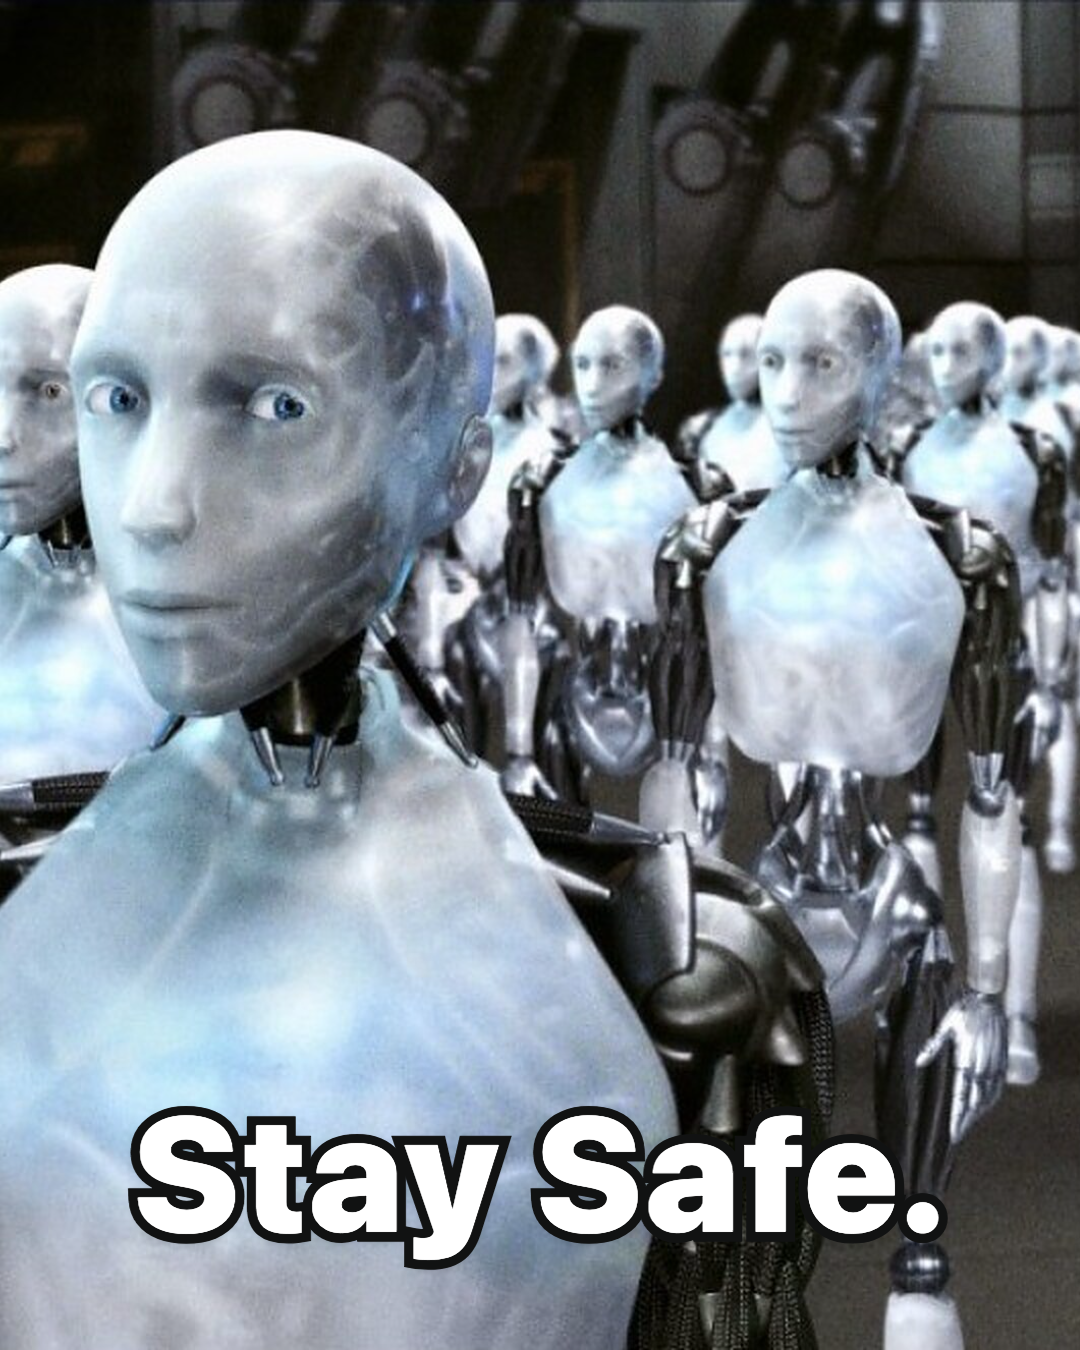
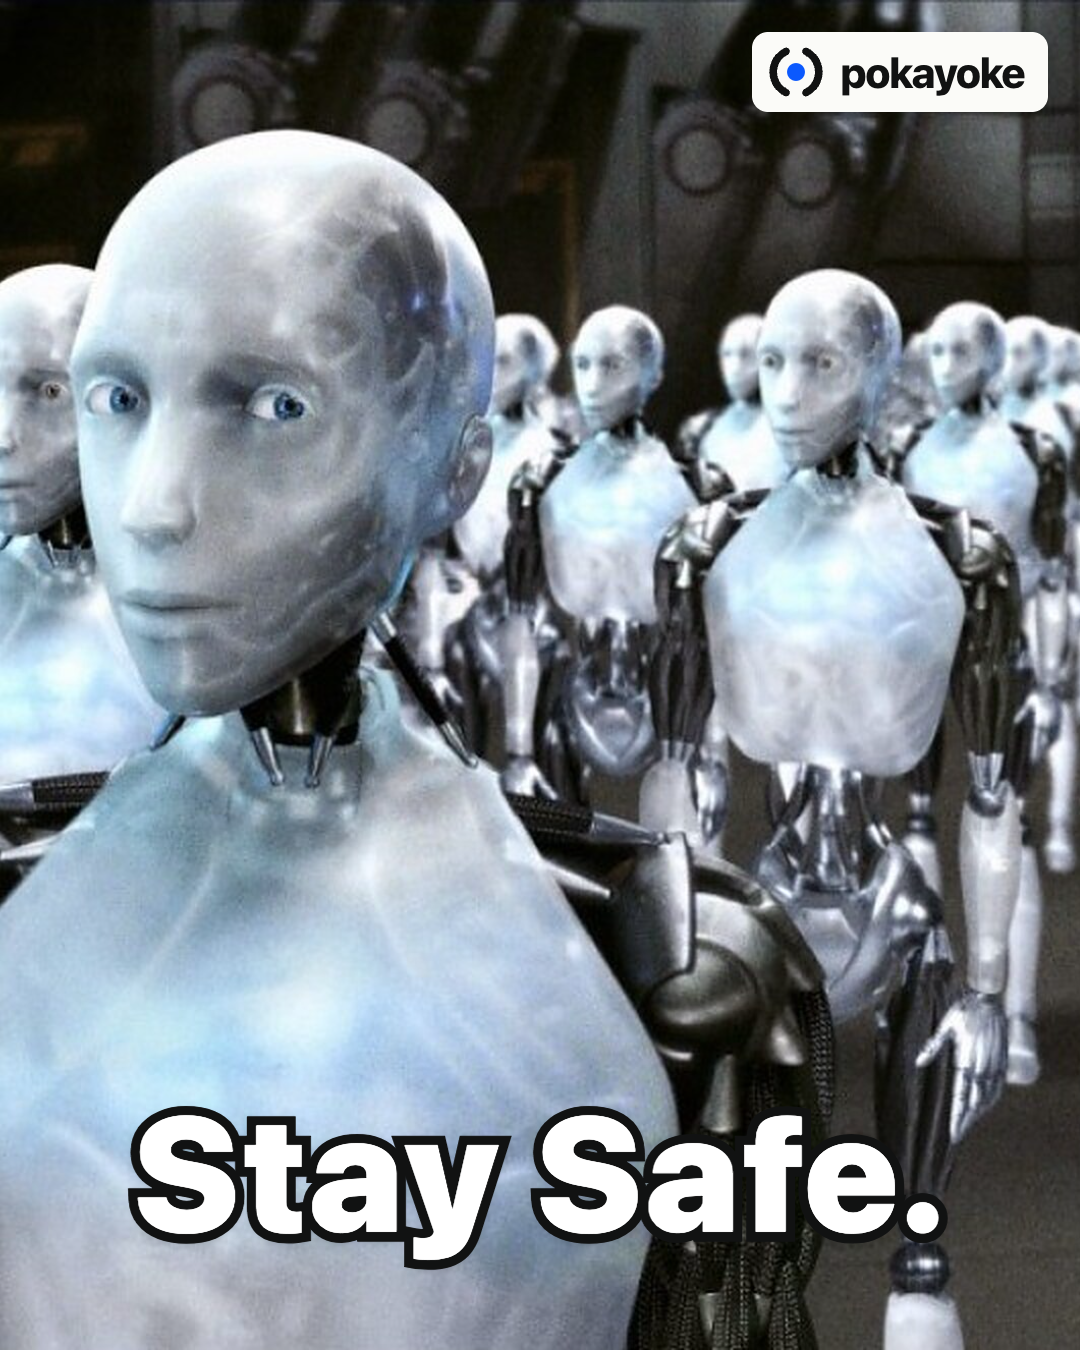
Stay Safe. ads PKY-0015 to PKY-0017: add the pokayoke lockup top right in every ratio, at the user's request

Changed region(s): [[0.6722, 0.0, 0.9778, 0.0933]]

diff --git a/ads/PKY-0015/ad.html b/ads/PKY-0015/ad.html
@@ -13,31 +13,45 @@
   Meme: "Terminator robots invading" (imgflip template 530426257), the future-war shot of T-800 endoskeletons
   marching through blue smoke with miniguns, from the 1777x920 copy the user sent, upscaled 2x to still.jpg (3554x1840).
   Rights: a Terminator film still (meme bank MEME-59, "Ask first or skip"): not for paid ads unless licensed.
-  The only text is "Stay Safe.", as the user asked: no label, no lockup, no tagline.
-  The still fills the frame in every ratio; --fx/--fy pick the crop (0 = left/top edge, 1 = right/bottom edge).
+  The only text is "Stay Safe.", as the user asked, and the pokayoke lockup (mark and wordmark) top right,
+  their later ask; no byline, no tagline.
+  The still fills the frame in every ratio; --fx/--fy pick the crop (0 = left/top edge, 1 = right/bottom edge),
+  and --view (object-view-box) trims the still first where the lockup would cover a robot.
   PKY-0015 to PKY-0017 are the same ad over the three images the user sent.
 -->
 <style>
   :root {
     --frame-w: 960px;
     --frame-h: 540px;
-    --fx: 0.5;
-    --fy: 0.35;
+    --fx: 1;
+    --fy: 0;
+    /* 16:9 only: view the top-right 88% of the still, so the front robot's head clears the lockup */
+    --view: inset(0 0 12% 12%);
     --size: 12cqw;
     --bottom: 7cqh;
+    --lockup-top: var(--space-20);
+    --lockup-right: var(--space-20);
   }
   [data-ratio="4x5"] {
     --frame-w: 540px;
     --frame-h: 675px;
     --fx: 0.24;
+    --fy: 0.35;
+    --view: none;
     --size: 15cqw;
+    --lockup-top: var(--space-16);
+    --lockup-right: var(--space-16);
   }
   [data-ratio="9x16"] {
     --frame-w: 540px;
     --frame-h: 960px;
     --fx: 0.2;
+    --fy: 0.35;
+    --view: none;
     --size: 15cqw;
     --bottom: 22cqh; /* above the reply bar and captions that Stories and Reels lay over the bottom */
+    --lockup-top: 14cqh; /* below the profile bar and close button Stories lay over the top */
+    --lockup-right: var(--space-16);
   }
 
   * { box-sizing: border-box; }
@@ -52,7 +66,7 @@
 
   .ad { width: 100%; height: 100%; overflow: hidden; }
 
-  /* The still, and the one line of text over it */
+  /* The still, the one line of text over it, and the lockup */
   .shot { position: relative; width: 100%; height: 100%; overflow: hidden; container-type: size; background: var(--color-ink); }
   .shot img {
     width: 100%;
@@ -60,6 +74,7 @@
     display: block;
     object-fit: cover;
     object-position: calc(var(--fx) * 100%) calc(var(--fy) * 100%);
+    object-view-box: var(--view);
   }
   .caption {
     position: absolute;
@@ -76,6 +91,28 @@
     paint-order: stroke fill;
     text-shadow: 0 0.4cqw 1.6cqw color-mix(in srgb, var(--color-ink) 55%, transparent);
   }
+
+  /* The pokayoke lockup, top right, on a canvas chip so it reads over any still (as on PKY-0013) */
+  .lockup {
+    position: absolute;
+    top: var(--lockup-top);
+    right: var(--lockup-right);
+    display: flex;
+    align-items: center;
+    gap: var(--space-12);
+    padding: var(--space-8) var(--space-16) var(--space-8) var(--space-12);
+    background: var(--color-canvas);
+    border-radius: var(--radius-control);
+    box-shadow: 0 2px 12px color-mix(in srgb, var(--color-ink) 35%, transparent);
+  }
+  .lockup svg { width: 32px; height: 32px; flex: none; }
+  .wordmark { font-size: 24px; font-weight: 800; letter-spacing: -0.03em; line-height: 1; color: var(--color-ink); }
+  [data-ratio="4x5"] .lockup,
+  [data-ratio="9x16"] .lockup { gap: var(--space-8); padding: var(--space-6) var(--space-12) var(--space-6) var(--space-8); }
+  [data-ratio="4x5"] .lockup svg,
+  [data-ratio="9x16"] .lockup svg { width: 28px; height: 28px; }
+  [data-ratio="4x5"] .wordmark,
+  [data-ratio="9x16"] .wordmark { font-size: 21px; }
 </style>
 </head>
 <body>
@@ -83,6 +120,10 @@
   <div class="shot">
     <img src="still.jpg" width="3554" height="1840" alt="">
     <p class="caption">Stay Safe.</p>
+    <div class="lockup">
+      <svg viewBox="1 1 22 22" aria-hidden="true"><path d="M8.1 3.9A9 9 0 0 0 8.1 20.1M15.9 3.9A9 9 0 0 1 15.9 20.1" fill="none" stroke="#111212" stroke-width="3" stroke-linecap="round"/><circle cx="12" cy="12" r="3.5" fill="#0B59FE"/></svg>
+      <p class="wordmark">pokayoke</p>
+    </div>
   </div>
 </main>
 </body>

diff --git a/ads/PKY-0017/ad.html b/ads/PKY-0017/ad.html
@@ -15,7 +15,8 @@
   Daniel Jurena, 2017, CC BY-SA 2.0 (commons.wikimedia.org/wiki/File:Terminator_in_Madame_Tussaud_London_(33465711484).jpg),
   scaled to still.jpg (2880x1908). CC BY-SA asks for that credit wherever the ad runs, and the figure is Arnold
   Schwarzenegger's likeness as the Terminator (meme bank MEME-62, "Ask first or skip"): not for paid ads unless licensed.
-  The only text is "Stay Safe.", as the user asked: no label, no lockup, no tagline.
+  The only text is "Stay Safe.", as the user asked, and the pokayoke lockup (mark and wordmark) top right,
+  their later ask; no byline, no tagline.
   The still fills the frame in every ratio; --fx/--fy pick the crop (0 = left/top edge, 1 = right/bottom edge).
   PKY-0015 to PKY-0017 are the same ad over the three images the user sent.
 -->
@@ -27,12 +28,16 @@
     --fy: 0.4;
     --size: 12cqw;
     --bottom: 7cqh;
+    --lockup-top: var(--space-20);
+    --lockup-right: var(--space-20);
   }
   [data-ratio="4x5"] {
     --frame-w: 540px;
     --frame-h: 675px;
     --fx: 0.52;
     --size: 15cqw;
+    --lockup-top: var(--space-16);
+    --lockup-right: var(--space-16);
   }
   [data-ratio="9x16"] {
     --frame-w: 540px;
@@ -40,6 +45,8 @@
     --fx: 0.52;
     --size: 15cqw;
     --bottom: 22cqh; /* above the reply bar and captions that Stories and Reels lay over the bottom */
+    --lockup-top: 14cqh; /* below the profile bar and close button Stories lay over the top */
+    --lockup-right: var(--space-16);
   }
 
   * { box-sizing: border-box; }
@@ -54,7 +61,7 @@
 
   .ad { width: 100%; height: 100%; overflow: hidden; }
 
-  /* The still, and the one line of text over it */
+  /* The still, the one line of text over it, and the lockup */
   .shot { position: relative; width: 100%; height: 100%; overflow: hidden; container-type: size; background: var(--color-ink); }
   .shot img {
     width: 100%;
@@ -78,6 +85,28 @@
     paint-order: stroke fill;
     text-shadow: 0 0.4cqw 1.6cqw color-mix(in srgb, var(--color-ink) 55%, transparent);
   }
+
+  /* The pokayoke lockup, top right, on a canvas chip so it reads over any still (as on PKY-0013) */
+  .lockup {
+    position: absolute;
+    top: var(--lockup-top);
+    right: var(--lockup-right);
+    display: flex;
+    align-items: center;
+    gap: var(--space-12);
+    padding: var(--space-8) var(--space-16) var(--space-8) var(--space-12);
+    background: var(--color-canvas);
+    border-radius: var(--radius-control);
+    box-shadow: 0 2px 12px color-mix(in srgb, var(--color-ink) 35%, transparent);
+  }
+  .lockup svg { width: 32px; height: 32px; flex: none; }
+  .wordmark { font-size: 24px; font-weight: 800; letter-spacing: -0.03em; line-height: 1; color: var(--color-ink); }
+  [data-ratio="4x5"] .lockup,
+  [data-ratio="9x16"] .lockup { gap: var(--space-8); padding: var(--space-6) var(--space-12) var(--space-6) var(--space-8); }
+  [data-ratio="4x5"] .lockup svg,
+  [data-ratio="9x16"] .lockup svg { width: 28px; height: 28px; }
+  [data-ratio="4x5"] .wordmark,
+  [data-ratio="9x16"] .wordmark { font-size: 21px; }
 </style>
 </head>
 <body>
@@ -85,6 +114,10 @@
   <div class="shot">
     <img src="still.jpg" width="2880" height="1908" alt="">
     <p class="caption">Stay Safe.</p>
+    <div class="lockup">
+      <svg viewBox="1 1 22 22" aria-hidden="true"><path d="M8.1 3.9A9 9 0 0 0 8.1 20.1M15.9 3.9A9 9 0 0 1 15.9 20.1" fill="none" stroke="#111212" stroke-width="3" stroke-linecap="round"/><circle cx="12" cy="12" r="3.5" fill="#0B59FE"/></svg>
+      <p class="wordmark">pokayoke</p>
+    </div>
   </div>
 </main>
 </body>

diff --git a/ads/PKY-0016/ad.html b/ads/PKY-0016/ad.html
@@ -14,7 +14,8 @@
   robots standing in ranks, one at the front staring at the camera. Pixels from the same frame's larger upload
   (imgflip 337209794, 1200x663), upscaled 2x to still.jpg (2400x1326).
   Rights: an I, Robot film still (meme bank MEME-61, "Ask first or skip"): not for paid ads unless licensed.
-  The only text is "Stay Safe.", as the user asked: no label, no lockup, no tagline.
+  The only text is "Stay Safe.", as the user asked, and the pokayoke lockup (mark and wordmark) top right,
+  their later ask; no byline, no tagline.
   The still fills the frame in every ratio; --fx/--fy pick the crop (0 = left/top edge, 1 = right/bottom edge).
   PKY-0015 to PKY-0017 are the same ad over the three images the user sent.
 -->
@@ -26,12 +27,16 @@
     --fy: 0.5;
     --size: 12cqw;
     --bottom: 7cqh;
+    --lockup-top: var(--space-20);
+    --lockup-right: var(--space-20);
   }
   [data-ratio="4x5"] {
     --frame-w: 540px;
     --frame-h: 675px;
     --fx: 0.06;
     --size: 15cqw;
+    --lockup-top: var(--space-16);
+    --lockup-right: var(--space-16);
   }
   [data-ratio="9x16"] {
     --frame-w: 540px;
@@ -39,6 +44,8 @@
     --fx: 0.03;
     --size: 15cqw;
     --bottom: 22cqh; /* above the reply bar and captions that Stories and Reels lay over the bottom */
+    --lockup-top: 14cqh; /* below the profile bar and close button Stories lay over the top */
+    --lockup-right: var(--space-16);
   }
 
   * { box-sizing: border-box; }
@@ -53,7 +60,7 @@
 
   .ad { width: 100%; height: 100%; overflow: hidden; }
 
-  /* The still, and the one line of text over it */
+  /* The still, the one line of text over it, and the lockup */
   .shot { position: relative; width: 100%; height: 100%; overflow: hidden; container-type: size; background: var(--color-ink); }
   .shot img {
     width: 100%;
@@ -77,6 +84,28 @@
     paint-order: stroke fill;
     text-shadow: 0 0.4cqw 1.6cqw color-mix(in srgb, var(--color-ink) 55%, transparent);
   }
+
+  /* The pokayoke lockup, top right, on a canvas chip so it reads over any still (as on PKY-0013) */
+  .lockup {
+    position: absolute;
+    top: var(--lockup-top);
+    right: var(--lockup-right);
+    display: flex;
+    align-items: center;
+    gap: var(--space-12);
+    padding: var(--space-8) var(--space-16) var(--space-8) var(--space-12);
+    background: var(--color-canvas);
+    border-radius: var(--radius-control);
+    box-shadow: 0 2px 12px color-mix(in srgb, var(--color-ink) 35%, transparent);
+  }
+  .lockup svg { width: 32px; height: 32px; flex: none; }
+  .wordmark { font-size: 24px; font-weight: 800; letter-spacing: -0.03em; line-height: 1; color: var(--color-ink); }
+  [data-ratio="4x5"] .lockup,
+  [data-ratio="9x16"] .lockup { gap: var(--space-8); padding: var(--space-6) var(--space-12) var(--space-6) var(--space-8); }
+  [data-ratio="4x5"] .lockup svg,
+  [data-ratio="9x16"] .lockup svg { width: 28px; height: 28px; }
+  [data-ratio="4x5"] .wordmark,
+  [data-ratio="9x16"] .wordmark { font-size: 21px; }
 </style>
 </head>
 <body>
@@ -84,6 +113,10 @@
   <div class="shot">
     <img src="still.jpg" width="2400" height="1326" alt="">
     <p class="caption">Stay Safe.</p>
+    <div class="lockup">
+      <svg viewBox="1 1 22 22" aria-hidden="true"><path d="M8.1 3.9A9 9 0 0 0 8.1 20.1M15.9 3.9A9 9 0 0 1 15.9 20.1" fill="none" stroke="#111212" stroke-width="3" stroke-linecap="round"/><circle cx="12" cy="12" r="3.5" fill="#0B59FE"/></svg>
+      <p class="wordmark">pokayoke</p>
+    </div>
   </div>
 </main>
 </body>

diff --git a/ads/manifest.js b/ads/manifest.js
@@ -9,15 +9,15 @@ window.POKAYOKE_ADS = [
   },
   {
     id: 'PKY-0017',
-    alt: 'pokayoke ad. Stay Safe. Over a close-up of the Terminator waxwork at Madame Tussauds London: half the face torn back to a chrome skull with a glowing red eye, in front of a burning red backdrop.',
+    alt: 'pokayoke ad. Stay Safe. Over a close-up of the Terminator waxwork at Madame Tussauds London: half the face torn back to a chrome skull with a glowing red eye, in front of a burning red backdrop. The pokayoke logo sits in the top right corner.',
   },
   {
     id: 'PKY-0016',
-    alt: 'pokayoke ad. Stay Safe. Over the I, Robot army: rows of identical white humanoid robots standing in a warehouse, the one at the front staring at the camera.',
+    alt: 'pokayoke ad. Stay Safe. Over the I, Robot army: rows of identical white humanoid robots standing in a warehouse, the one at the front staring at the camera. The pokayoke logo sits in the top right corner.',
   },
   {
     id: 'PKY-0015',
-    alt: 'pokayoke ad. Stay Safe. Over a Terminator future-war still: an army of chrome robot skeletons with red eyes marching out of blue smoke, the nearest ones carrying miniguns.',
+    alt: 'pokayoke ad. Stay Safe. Over a Terminator future-war still: an army of chrome robot skeletons with red eyes marching out of blue smoke, the nearest ones carrying miniguns. The pokayoke logo sits in the top right corner.',
   },
   {
     id: 'PKY-0013',

diff --git a/README.md b/README.md
@@ -32,9 +32,9 @@ git config credential.https://KiltroKills@github.com.helper \
 | ID | Message | Files |
 |---|---|---|
 | PKY-0018 | Video, 10.5 s loop. The "it's a vicious cycle" GIF (a cartoon cat stops one leak and opens a bigger one) with its caption replaced by "Chat, no exploits pls." and the pokayoke lockup bottom right (meme bank MEME-63; cartoon footage, license or reanimate for paid ads) | [`ads/PKY-0018/`](ads/PKY-0018/) |
-| PKY-0017 | "Stay Safe." and nothing else, over the Terminator waxwork at Madame Tussauds London, half its face torn back to the chrome skull (MEME-62; photo by Daniel Jurena, CC BY-SA 2.0, credit it where it runs; a likeness, not for paid ads unless licensed) | [`ads/PKY-0017/`](ads/PKY-0017/) |
-| PKY-0016 | "Stay Safe." and nothing else, over the I, Robot army of NS-5 robots standing in ranks (MEME-61; film still, not for paid ads unless licensed) | [`ads/PKY-0016/`](ads/PKY-0016/) |
-| PKY-0015 | "Stay Safe." and nothing else, over a Terminator future-war still of an endoskeleton army marching out of blue smoke (MEME-59; film still, not for paid ads unless licensed) | [`ads/PKY-0015/`](ads/PKY-0015/) |
+| PKY-0017 | "Stay Safe." and the pokayoke lockup top right, over the Terminator waxwork at Madame Tussauds London, half its face torn back to the chrome skull (MEME-62; photo by Daniel Jurena, CC BY-SA 2.0, credit it where it runs; a likeness, not for paid ads unless licensed) | [`ads/PKY-0017/`](ads/PKY-0017/) |
+| PKY-0016 | "Stay Safe." and the pokayoke lockup top right, over the I, Robot army of NS-5 robots standing in ranks (MEME-61; film still, not for paid ads unless licensed) | [`ads/PKY-0016/`](ads/PKY-0016/) |
+| PKY-0015 | "Stay Safe." and the pokayoke lockup top right, over a Terminator future-war still of an endoskeleton army marching out of blue smoke (MEME-59; film still, not for paid ads unless licensed) | [`ads/PKY-0015/`](ads/PKY-0015/) |
 | PKY-0013 | "No exploits in my repo. Make no mistakes." over a worker whose harness is clipped to a hook taped to the wall, the hook circled, and only the pokayoke lockup on the photo, bottom left (meme bank MEME-54) | [`ads/PKY-0013/`](ads/PKY-0013/) |
 | PKY-0011 | Terminator 2 minigun still, the T-800 labelled pokayoke. Bottom text "Have them on your side." (MEME-56; film still, not for paid ads unless licensed) | [`ads/PKY-0011/`](ads/PKY-0011/) |
 | PKY-0010 | Terminator 2 motorcycle still, the T-800 labelled pokayoke and the boy labelled your repo. Bottom text "Have them on your side." (MEME-55; film still, not for paid ads unless licensed) | [`ads/PKY-0010/`](ads/PKY-0010/) |
